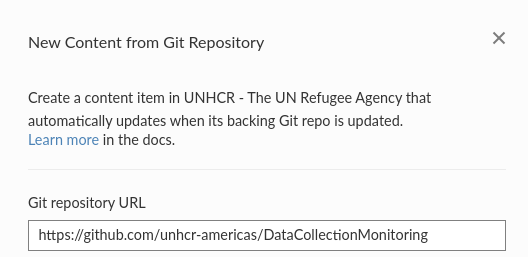
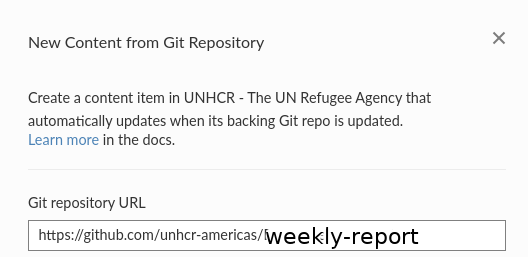
rev doc

Changed region(s): [[0.4848, 0.8716, 0.8182, 0.965]]

diff --git a/README.md b/README.md
@@ -1,12 +1,12 @@
 # Weekly Report Automation
 
 
-This repository includes material to automate weekly reporting from all countries to the bureau. It compiles information from each operation based on predefined structure within a single report.
+This repository includes material to automate weekly reporting from all countries to the bureau. It compiles information from each operation in the region based on predefined structure within a single report.
 
 
 ## Form
 
-An xlsform questionnaire is used in Kobo - [`xlsform.xlsx`](https://github.com/unhcr-americas/weekly-report/raw/main/xlsform.xlsx). You can see a preview/demo of the form - __this is NOT the production /official FORM__ here: https://enketo.unhcr.org/single/6o7btvE1 
+An [xlsform questionnaire](http://xlsform.org) is used in [Kobotoolbox server](http://kobo.unhcr.org) - [`xlsform.xlsx`](https://github.com/unhcr-americas/weekly-report/raw/main/xlsform.xlsx). You can see a preview/demo of the form - __this is NOT the production /official FORM__ here: https://enketo.unhcr.org/single/6o7btvE1 
 
 
 ## Report Template
@@ -87,7 +87,6 @@ You need now to set up the kobotoolbox authentication token within the Rstudio s
 
 et voila...
 
-![ ](https://raw.githubusercontent.com/unhcr-americas/weekly-report/main/inst/fromGit8.png)
 
 
 ### Step 5 -  Use power automate to forward automatically the email with the report to the data supervisor
